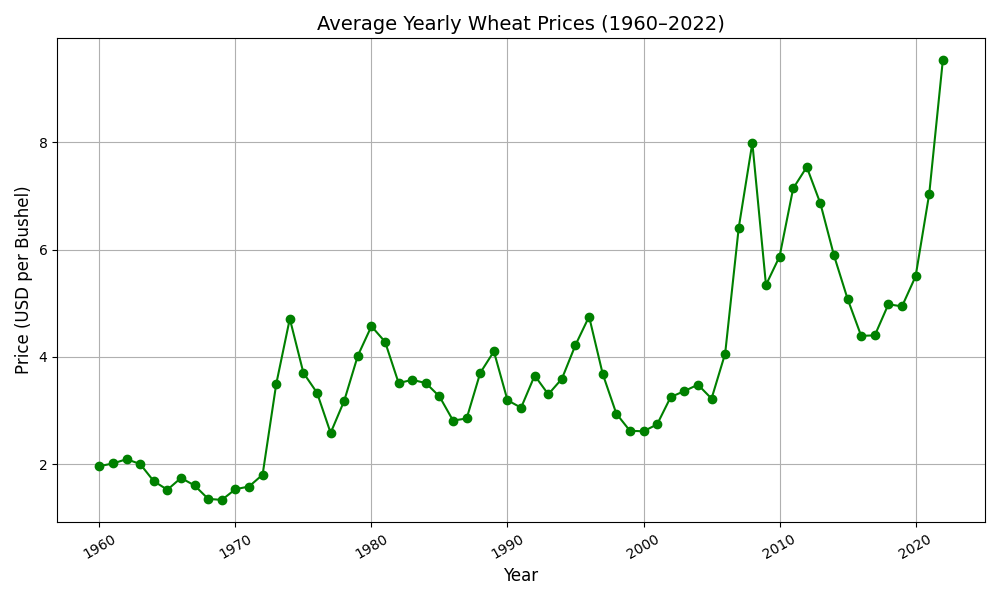
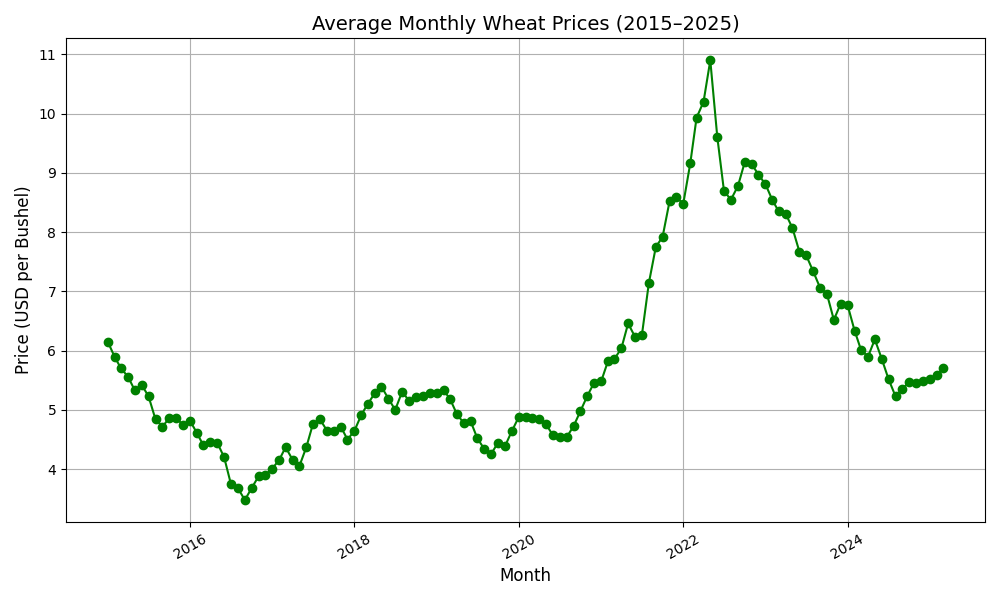
added trendline, moving avg, and forecast from trendline

diff --git a/forecast.py b/forecast.py
@@ -1,21 +1,49 @@
+from sklearn.linear_model import LinearRegression
 import pandas as pd
 import matplotlib.pyplot as plt
+import numpy as np
+
 
 df = pd.read_csv("wheat_prices.csv")
-df.columns = ['Year', 'Price']
-df['Price'] = df['Price'].replace('[\$,]', '', regex=True).astype(float)
-df['Year'] = pd.to_datetime(df['Year'], format='%Y')
-df.set_index('Year', inplace=True)
+df.columns = ['Month', 'Price']
 
-plt.figure(figsize=(10, 6))
-plt.plot(df.index, df['Price'], marker='o', linestyle='solid', color='green')
+start_year = 2015
+num_months = len(df)
+years = [start_year + (i//12) for i in range(num_months)]
 
-plt.title("Average Yearly Wheat Prices (1960–2022)", fontsize=14)
-plt.xlabel("Year", fontsize=12)
-plt.ylabel("Price (USD per Bushel)", fontsize=12)
+df['Date'] = df['Month'] + ' ' + pd.Series(years).astype(str)
+df['Date'] = pd.to_datetime(df['Date'], format = '%B  %Y')
+df.set_index('Date', inplace=True)
+
+df = df.copy()
+df['Month_Num'] = (df.index.year - 2015) * 12 + (df.index.month - 1)
+
+X = df['Month_Num'].values.reshape(-1, 1)
+y = df['Price'].values
+model = LinearRegression()
+model.fit(X, y)
+
+df['Trendline'] = model.predict(X)
+
+future_months = np.arange(df['Month_Num'].max() + 1, df['Month_Num'].max() + 13).reshape(-1, 1)
+future_dates = pd.date_range(start=df.index[-1] + pd.DateOffset(months=1), periods=12, freq='MS')
+future_prices = model.predict(future_months)
+
+future_df = pd.DataFrame({'Price': future_prices, 'Trendline': future_prices}, index=future_dates)
+
+plt.figure(figsize=(14, 6))
+plt.plot(df.index, df['Price'], label="Actual Price", color='green')
+plt.plot(df.index, df['Trendline'], label="Trendline (Linear Regression)", linestyle='--', color='blue')
+plt.plot(future_df.index, future_df['Price'], label="Forecast (Next 12 Months)", linestyle='--', color='red')
+
+df['Moving_Avg_12'] = df['Price'].rolling(window=12).mean()
+plt.plot(df.index, df['Moving_Avg_12'], label = '12-Month Moving Avg', color = 'orange', linestyle = '--')
+
+plt.title("Monthly Wheat Prices with Trendline and Forecast")
+plt.xlabel("Date")
+plt.ylabel("Price (USD per Bushel)")
 plt.grid(True)
-plt.xticks(rotation=30)
+plt.legend()
 plt.tight_layout()
-
-plt.savefig("wheat_plot.png")
+plt.savefig("wheat_forecast_monthly.png")
 plt.show()
